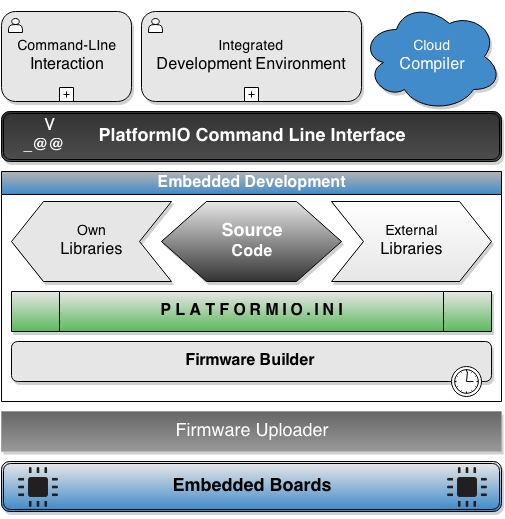
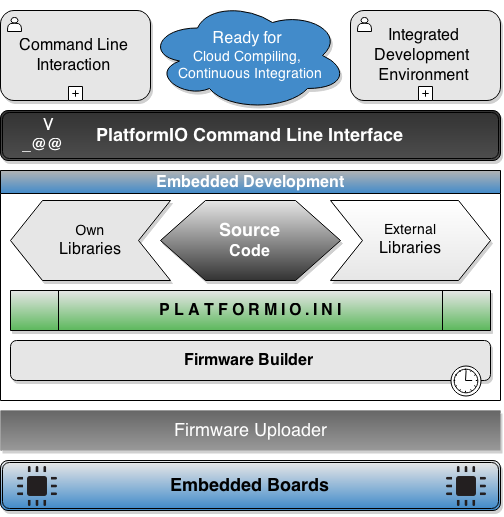
Add Cloud Compiling and Continuos Integration

diff --git a/app/views/home.html b/app/views/home.html
@@ -110,7 +110,7 @@
         <p class="lead"><i class="fa fa-check"></i> Configurable <a href="http://docs.platformio.org/en/latest/projectconf.html#build-flags">build -flags/-options</a></p>
         <p class="lead"><i class="fa fa-check"></i> Automatic <b>firmware uploading</b></p>
         <p class="lead"><i class="fa fa-check"></i> Integration with <a href="http://docs.platformio.org/en/latest/ide.html">development environments (IDE)</a></p>
-        <p class="lead"><i class="fa fa-check"></i> Ready for <b>cloud compilers</b></p>
+        <p class="lead"><i class="fa fa-check"></i> Ready for <b>Cloud Compiling</b> and <b>Continuous Integration</b></p>
         <p class="lead"><i class="fa fa-thumbs-up"></i> Pre-built tool chains, frameworks for the popular <a href="#!/platforms">Hardware Platforms</a></p>
       </div>
       <div class="col-md-5">
